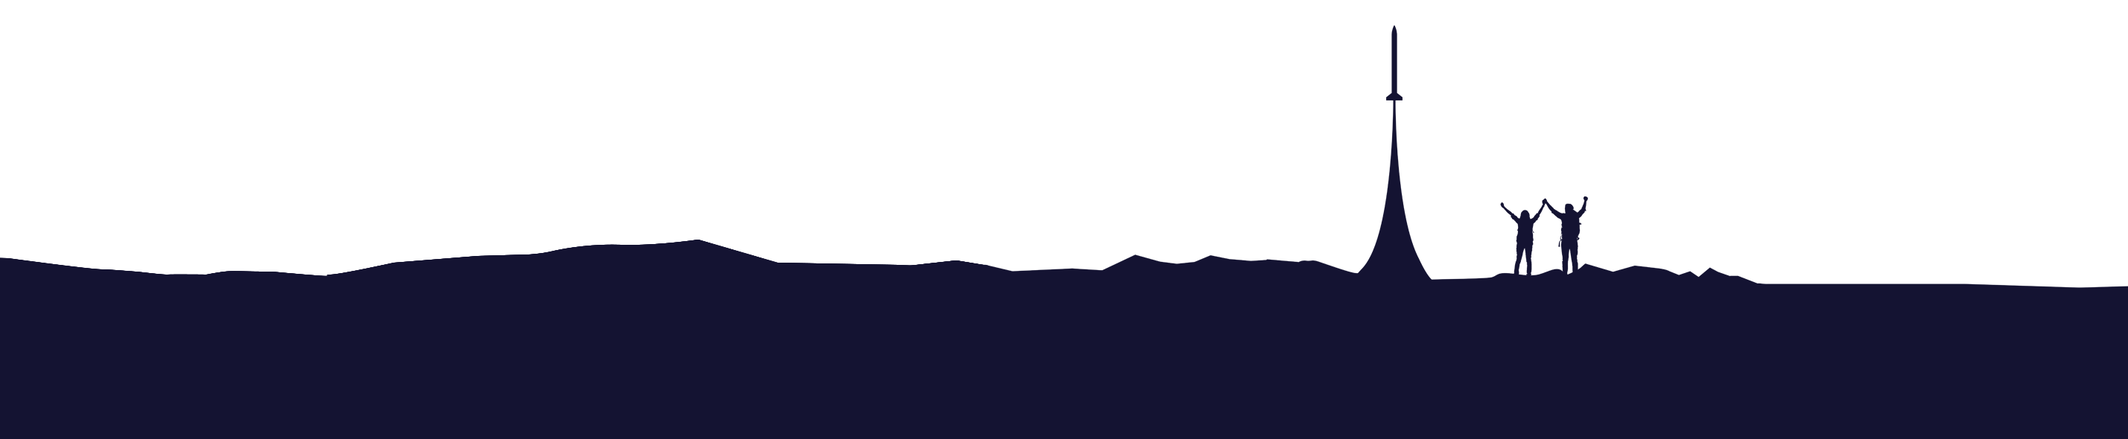
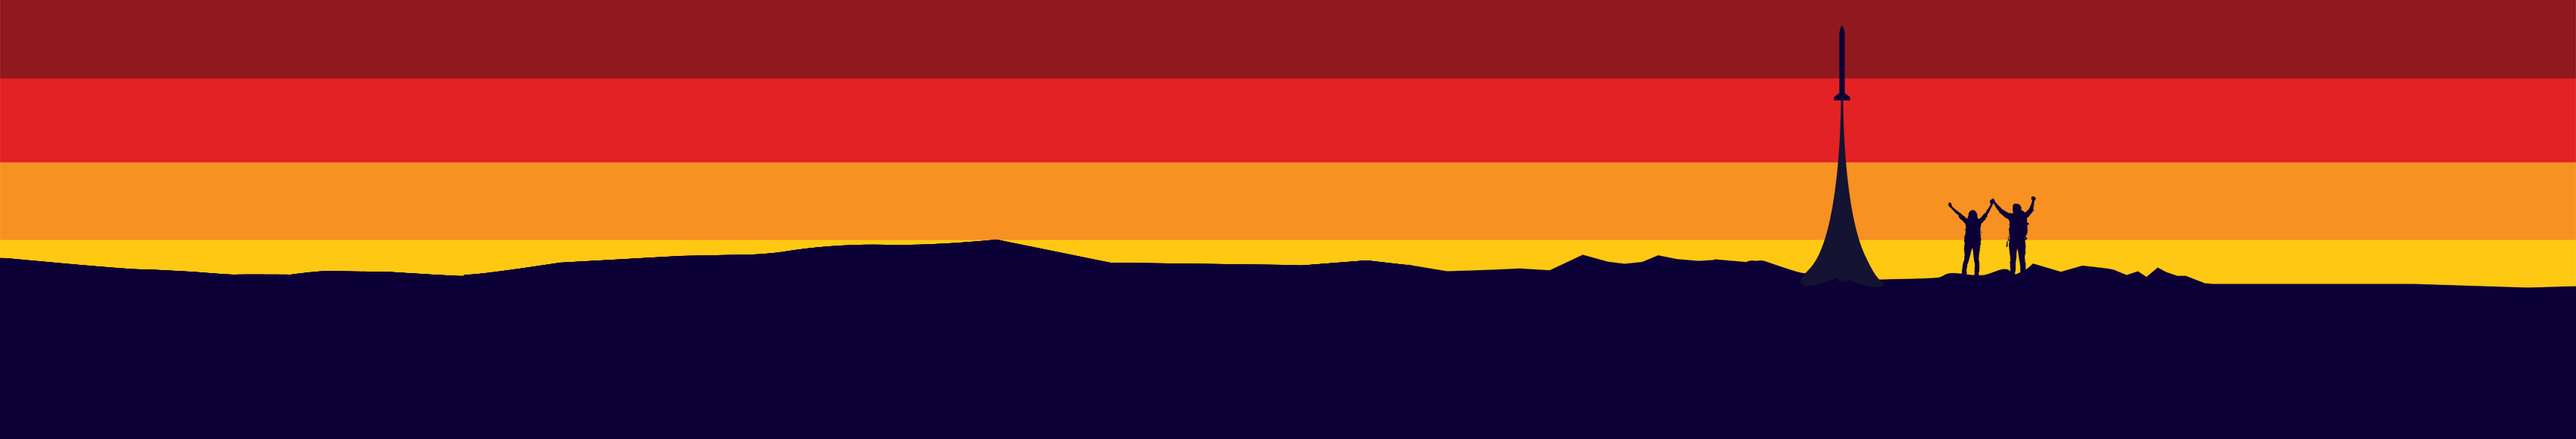
ATT

diff --git a/index.html b/index.html
@@ -1542,7 +1542,7 @@ Esta definição é gerenciada pelo CSS-->
 
 
 <!-- INICIO DA SEÇÃO APOIE /// INICIO DA SEÇÃO APOIE /// INICIO DA SEÇÃO APOIE /// INICIO DA SEÇÃO APOIE /// INICIO DA SEÇÃO APOIE /// -->
-<section class="secaoapoie" id="apoie">
+<section class="secaoapoie launch" id="apoie">
 <div class="container">
 <div class="row">
 
@@ -1589,7 +1589,7 @@ Esta definição é gerenciada pelo CSS-->
 
       <a href="" target="_blank"><button type="button" style="margin: 5px;" class="btn btn-branco rounded-pill"><font face="ddin" size="3" color="#0b0136">Apoiar como Empresa</font></button></a>
       <!--Fim dos Logos Doar -->
-
+      <br><br><br><br>
   </div>
   <!-- Fim do Lado Direito // Textual e Botão de Doar -->
 
@@ -1600,18 +1600,6 @@ Esta definição é gerenciada pelo CSS-->
 
    
 
-
-
-<!-- INICIO DA SEÇÃO APOIE /// INICIO DA SEÇÃO APOIE /// INICIO DA SEÇÃO APOIE /// INICIO DA SEÇÃO APOIE /// INICIO DA SEÇÃO APOIE /// -->
-<section class="secaodesenho nanosat">
-  <div class="container">
-    <br><br><br><br><br><br><br><br><br><br><br>
-
-  </div>
-  </section>
-  <!-- FIM DA SEÇÃO APOIE /// FIM DA SEÇÃO APOIE /// FIM DA SEÇÃO APOIE /// FIM DA SEÇÃO APOIE /// FIM DA SEÇÃO APOIE /// FIM DA SEÇÃO APOIE ///  -->
-  
-     
 
 
 <!-- INICIO DA SEÇÃO CONTATO /// INICIO DA SEÇÃO CONTATO /// INICIO DA SEÇÃO CONTATO /// INICIO DA SEÇÃO CONTATO /// INICIO DA SEÇÃO CONTATO /// -->

diff --git a/css/bravohomepage.css b/css/bravohomepage.css
@@ -2,13 +2,20 @@
 /************************************ SÓ TEM NA HOME *************************************/
 
 .nanosat{
-  background-image: url("../img/backgrounds/mountain.png");
+  background-image: url("../img/backgrounds/nanosat.png");
   background-repeat: no-repeat;
   background-attachment: scroll;
-  background-position: bottom;
+  background-position: center bottom;
   background-size: 100% auto; 
 }
 
+.launch{
+  background-image: url("../img/backgrounds/mountain.png");
+  background-repeat: no-repeat;
+  background-attachment: scroll;
+  background-position: center bottom;
+  background-size: 100% auto; 
+}
 
 
 @media only screen and (max-width: 900px) {
@@ -415,16 +422,10 @@ p {
 }
 /*FIM - Ajuste do Paragrafo*/
 
-/*INICIO - Ajuste da Seção Sem Margens*/
-.secaodesenho{
-  padding: 0px 0px 0px 0px;
-}
-/*FIM - Ajuste da Seção Sem Margens*/
-
 
 /*INICIO - Ajuste da Seção Sem Margens*/
 .secaoapoie{
-  padding: 100px 0px 0px 0px;
+  padding: 100px 0px 23% 0px; /*O 23% é a distância entre até o background*/
 }
 /*FIM - Ajuste da Seção Sem Margens*/
 
